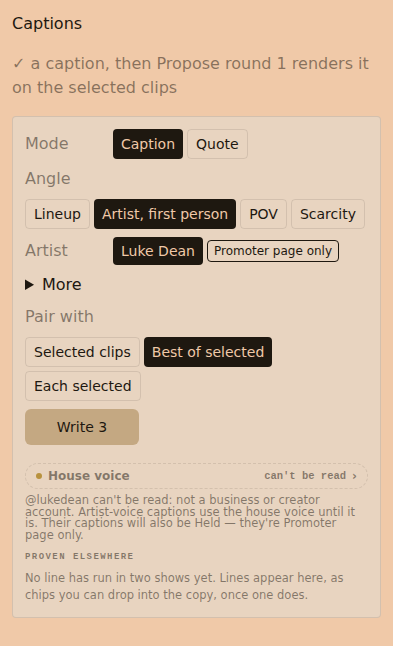
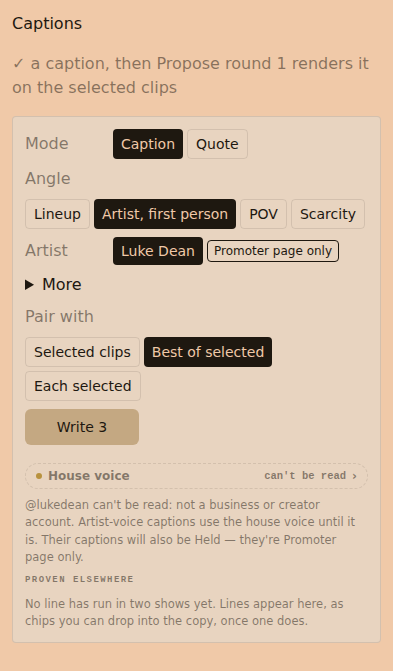
Keep the signed-off gap above Proven elsewhere, and open the voice sheet only where it was short.

diff --git a/components/dashboard/events/creative-lab/voice-panel.tsx b/components/dashboard/events/creative-lab/voice-panel.tsx
@@ -37,6 +37,7 @@ export function VoicePanel({
   onSave,
   initialOpen = false,
   contained = false,
+  onOpenChange,
 }: {
   lab: CreativeLabCardData;
   angle: string;
@@ -46,8 +47,13 @@ export function VoicePanel({
   initialOpen?: boolean;
   /** The frame keeps the sheet inside the shot. The event page uses a fixed sheet. */
   contained?: boolean;
+  onOpenChange?: (open: boolean) => void;
 }) {
   const [open, setOpen] = useState(initialOpen);
+  function setVoiceOpen(next: boolean) {
+    setOpen(next);
+    onOpenChange?.(next);
+  }
   const artist = lab.artists.find((item) => item.id === artistId) ?? lab.artists[0] ?? null;
   const voiceArtist = lab.voice?.artists.find((item) => item.id === artistId) ?? lab.voice?.artists[0] ?? null;
   const artistPage = angle === "artist_first_person";
@@ -101,7 +107,7 @@ export function VoicePanel({
       <div className="border-b border-border px-4 pt-3.5 pb-2.5">
         <div className="flex items-center justify-between">
           <b className="text-sm">{header}</b>
-          <button type="button" className="text-muted-foreground" onClick={() => setOpen(false)} aria-label="Close">✕</button>
+          <button type="button" className="text-muted-foreground" onClick={() => setVoiceOpen(false)} aria-label="Close">✕</button>
         </div>
         <div className={`mt-1 font-mono text-[10.5px] tracking-wide text-muted-foreground ${sampleN > 0 ? "uppercase" : ""}`}>
           <span className="max-[700px]:hidden">{subWide}</span>
@@ -170,12 +176,12 @@ export function VoicePanel({
   ) : null;
 
   return (
-    <div className={contained && open ? "contents" : "mb-0 flex flex-col"}>
+    <div className={contained && open ? "contents" : "space-y-2"}>
       <div className="relative z-[15] mt-2.5 flex flex-wrap items-center gap-2.5">
         <button
           type="button"
           className={`inline-flex h-[26px] max-w-full items-center gap-1.5 rounded-full border bg-card px-2.5 text-xs font-semibold max-[700px]:w-full ${parts.house ? "border-dashed text-muted-foreground" : "border-border-strong text-foreground"} ${open ? "border-foreground" : ""}`}
-          onClick={() => setOpen((value) => !value)}
+          onClick={() => setVoiceOpen(!open)}
         >
           <span aria-hidden className={`inline-block h-1.5 w-1.5 rounded-full ${parts.cant ? "bg-warning" : parts.house ? "bg-muted-foreground" : "bg-platform-ig"}`} />
           {parts.name}
@@ -183,9 +189,9 @@ export function VoicePanel({
           <span className="ml-auto hidden font-mono text-[10.5px] text-muted-foreground max-[700px]:inline">{parts.countNarrow}</span>
           <span className="text-muted-foreground" aria-hidden>{open ? "‹" : "›"}</span>
         </button>
-        <p className="text-[11.5px] leading-none text-muted-foreground max-[700px]:hidden">{whyWide}</p>
+        <p className={`text-[11.5px] text-muted-foreground max-[700px]:hidden ${contained && open ? "leading-none" : ""}`}>{whyWide}</p>
       </div>
-      <p className="relative z-[15] mt-1.5 hidden text-[11.5px] leading-none text-muted-foreground max-[700px]:block">{whyNarrow}</p>
+      <p className={`relative z-[15] mt-1.5 hidden text-[11.5px] text-muted-foreground max-[700px]:block ${contained && open ? "leading-none" : ""}`}>{whyNarrow}</p>
       {sheet}
     </div>
   );

diff --git a/components/dashboard/events/creative-lab/captions.tsx b/components/dashboard/events/creative-lab/captions.tsx
@@ -90,6 +90,7 @@ export function LabCaptions({
   const [pair, setPair] = useState<PairMode>(initialPair);
   const [writtenIds, setWrittenIds] = useState<readonly string[] | null>(initialWrittenIds ?? null);
   const [writing, setWriting] = useState(pendingWrite);
+  const [voiceOpen, setVoiceOpen] = useState(initialVoiceOpen);
   const [notice, setNotice] = useState<string | null>(null);
   const [mode, setMode] = useState<"caption" | "quote">("caption");
   const [snapshot, setSnapshot] = useState<CaptionGenerator>({ angle: "lineup", count: 3, pair: "best", stage: stageDefault });
@@ -276,10 +277,11 @@ export function LabCaptions({
             onSave={onSave}
             initialOpen={initialVoiceOpen}
             contained={voiceContained}
+            onOpenChange={setVoiceOpen}
           />
         ) : null}
-        <div className={`space-y-2 ${quoteMode ? "min-[701px]:pt-2.5 max-[700px]:pt-3" : ""}`}>
-          <p className="font-mono text-[9px] font-bold leading-none tracking-[0.16em] text-muted-foreground uppercase">Proven elsewhere</p>
+        <div className={`space-y-2 ${voiceOpen && voiceContained ? "min-[701px]:pt-2.5 max-[700px]:pt-3" : ""}`}>
+          <p className={`font-mono text-[9px] font-bold tracking-[0.16em] text-muted-foreground uppercase ${voiceOpen && voiceContained ? "leading-none" : ""}`}>Proven elsewhere</p>
           <p className="text-[11.5px] text-muted-foreground">{EMPTY_COPY_LINES}</p>
         </div>
         {notice ? <p className="text-sm">{notice}</p> : null}

diff --git a/docs/session-logs/pr-1148-cursor-rail-3.md b/docs/session-logs/pr-1148-cursor-rail-3.md
@@ -36,4 +36,4 @@ R13 sorts cheapest first, so IR4's result names the 0.65 opener, not the figure'
 
 Design fail round: the R22 sentence sits under the writer's Write button, labelled Proven elsewhere. On a voice frame the chip comes first. The drawer hides its collapsed edge tab, and its border, while open. The 2–3 line band reads "2–3 lines". The sheet scope stays the caps label; lowercase "all clients" is the confidence line only.
 
-Round 3: the space above Proven elsewhere is the block's own padding, 10px from 701px wide and 12px below that, the same under the chip, the wrapped voice line, and the dashed chip. The 18px from Write to the chip is the button's space plus the chip's mt-2.5.
+Round 3: the 10px / 12px above Proven elsewhere is the block's own padding, and only while the contained voice sheet is open, so the gap is measured from the chip line or the dashed chip. A closed voice row and every non-voice frame keep the signed-off gap. The 18px from Write to the chip is unchanged. CLV2-393's open gap sits below the clip, so that frame does not move.
